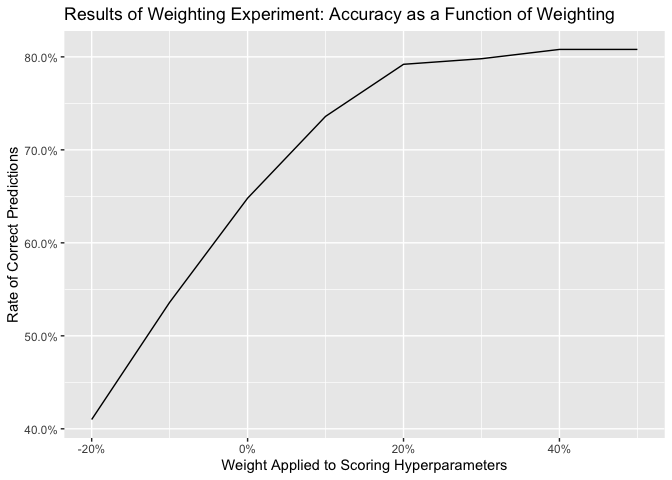
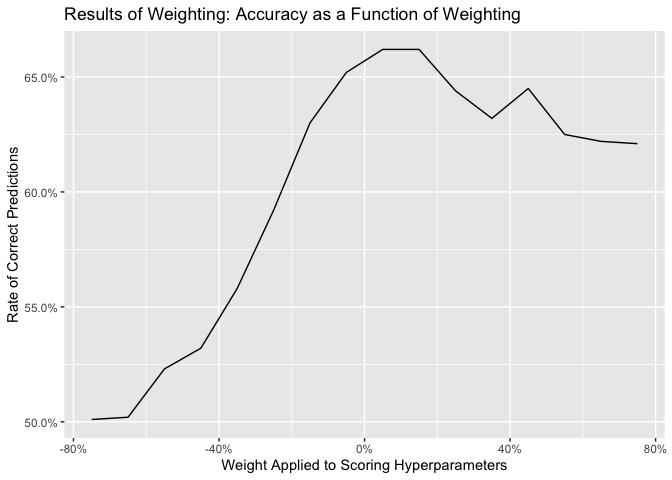
updates
updates

diff --git a/mens_bb_2021/bayes_pointed_scored.md b/mens_bb_2021/bayes_pointed_scored.md
@@ -334,7 +334,7 @@ probability estimates for the winning teams are above 50% with very few
 
 ------------------------------------------------------------------------
 
-## **Optimization Attempts**
+## **Optimization Attempts: Weighting Offensive and Defensive Expectations**
 
 ------------------------------------------------------------------------
 
@@ -345,28 +345,20 @@ think a team’s historical offensive performance is a slightly better
 predictor than their defensive performance. We could then compare the
 successful prediction rates across a set of different weightings.
 
-This exercise was performed and it was found to be very true. This
-model’s prediction power is optimized near a weighting of \~35%, where
-prediction accuracy settles around 80-83%. This is a tremendous
-improvement of the previous model, which saw success rates \~67%.
+Using 1k random games from previous NCAA tournaments, we find that
+applying a weighting for the defense is counter-productive, resulting in
+less accurate predictions. Optimal predictions are found anywhere
+between a 0% and 10% weighting toward the offense. Prediction accuracy
+only decreases rapidly after this point.
 
 ![](bayes_pointed_scored_files/figure-gfm/run%20loop%20to%20find%20optimal%20weighting-1.png)<!-- -->
 
-Predictions rates across our different seed spreads are, as expected,
-also greatly improved. We have an 80% accuracy for any games involving
-seed spreads between -15 and -1. For games with a spread of 0, we have
-an accuracy of 70%, which seems very good for games that most would
-consider a coin-toss. For upsets (seed spreads between 1 and 8), we have
-success rates above 50%.
-
-![](bayes_pointed_scored_files/figure-gfm/summary%20by%20seed%20spread%202-1.png)<!-- -->
-
-Although more research is needed, this drastic improvement might be
+Although more research is needed, these slight improvements might be
 explained by a few interesting anecdotals. One great example is the
 Davidson vs Wisconsin matchup from 2008 that we described earlier.
 Although our old model gave Wisconsin a slight advantage, our new model
 gives Davidson a far greater probability of winning. Our new model would
-have given Davidson a 90% chance of victory compared to the previous
+have given Davidson a 58% chance of victory compared to the previous
 estimate of 48%.
 
 ![](bayes_pointed_scored_files/figure-gfm/weight%20stuff%20toward%20offense-1.png)<!-- -->
